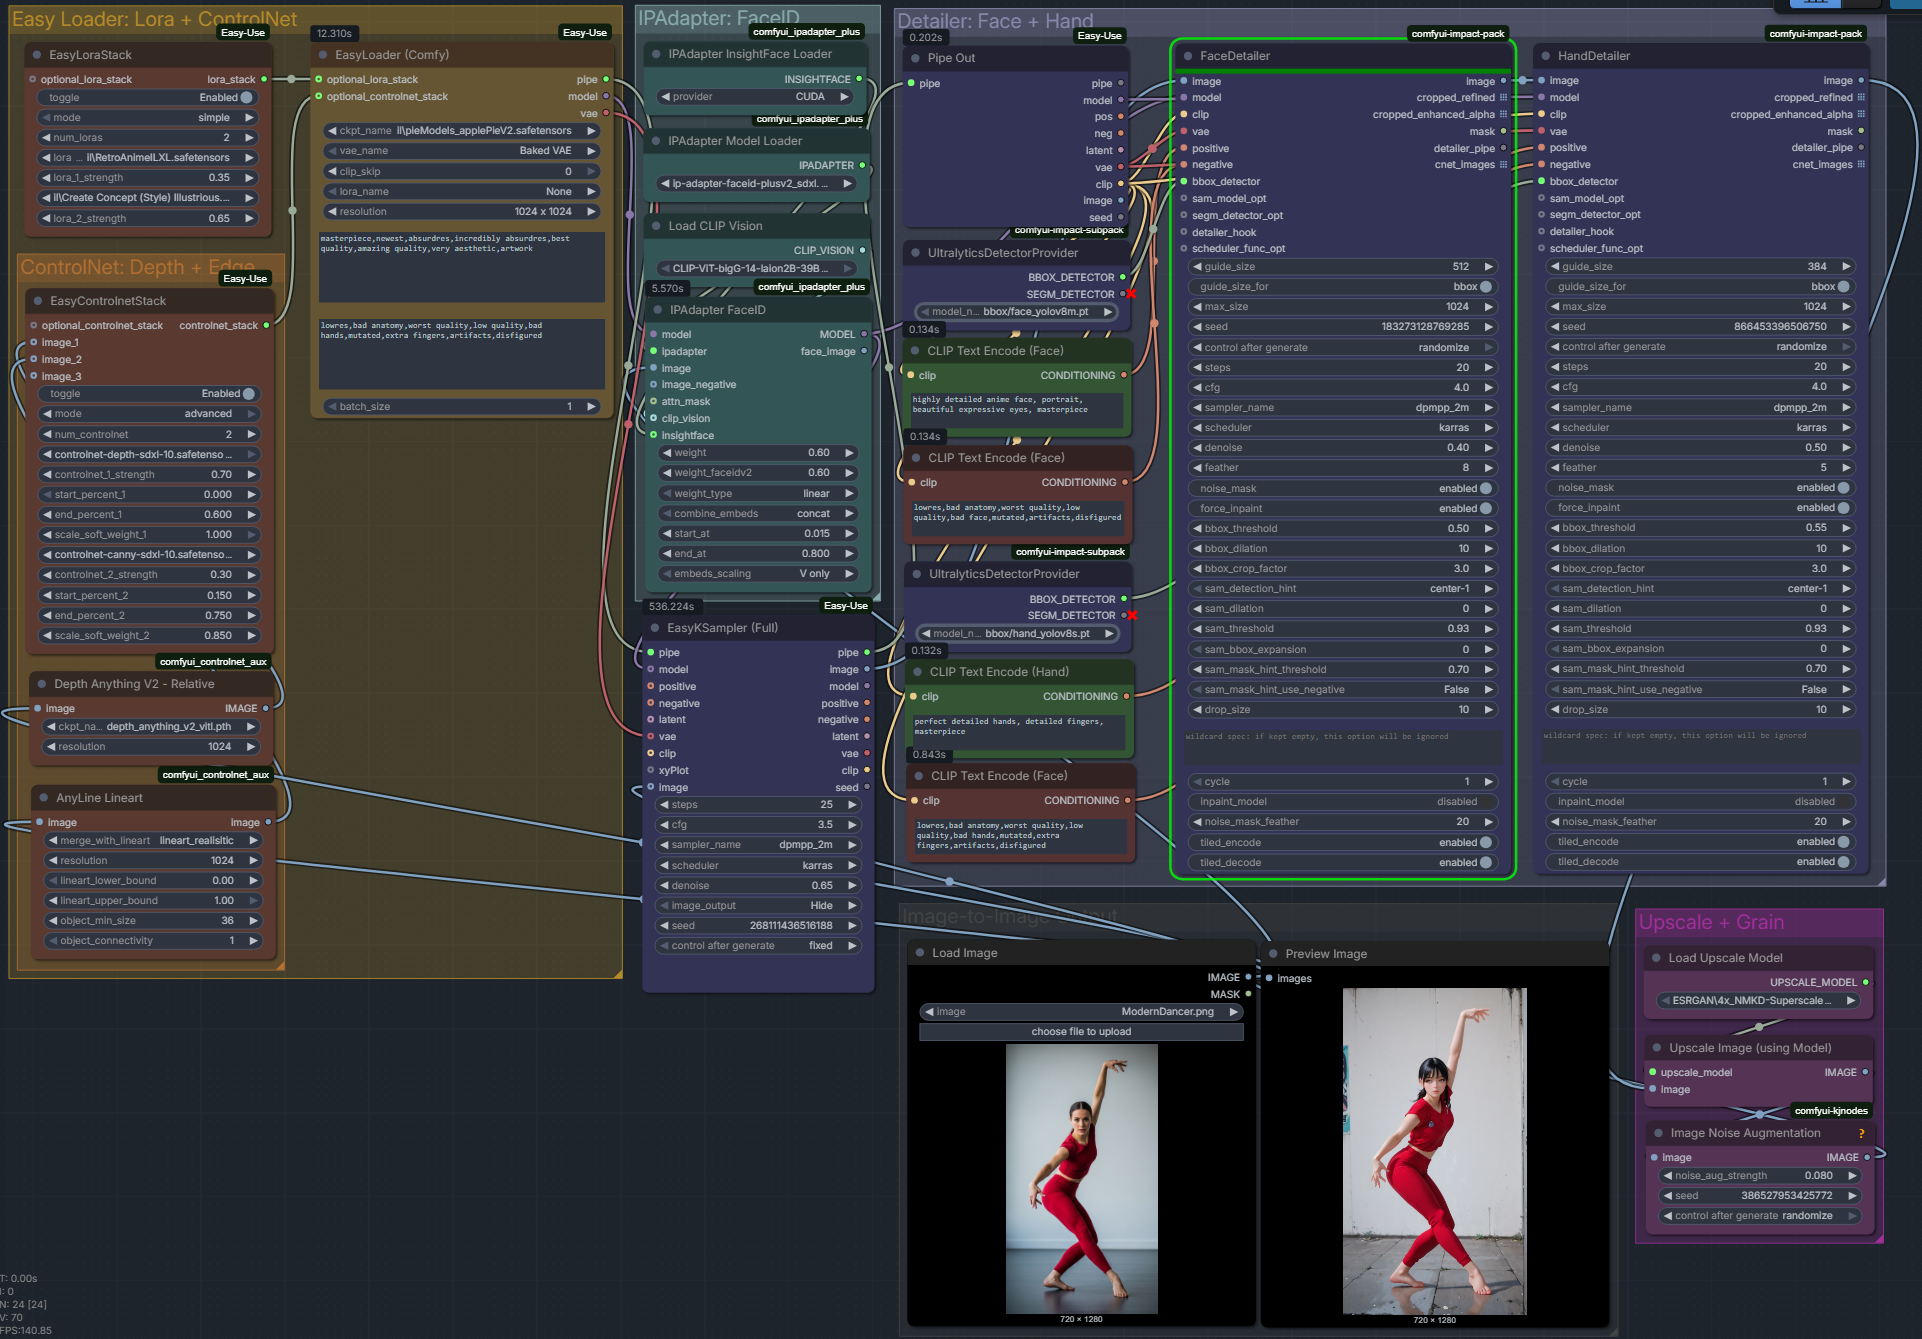
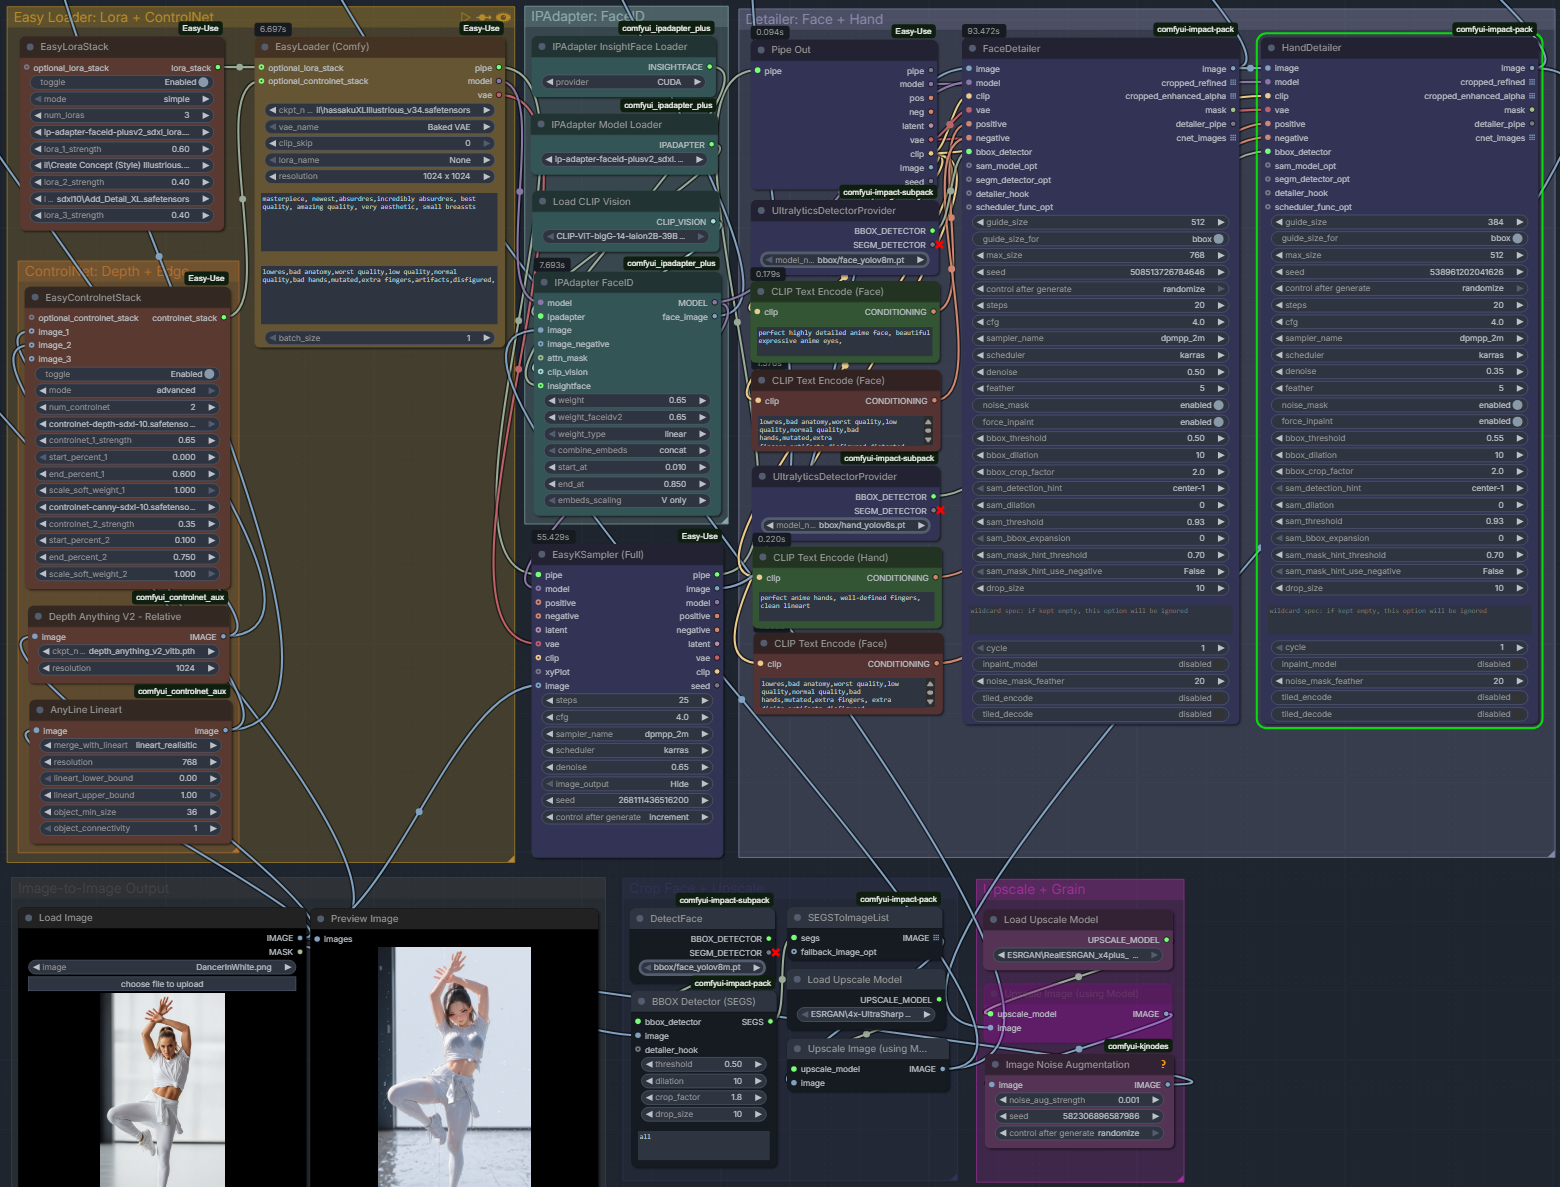
Add files via upload

diff --git a/README.md b/README.md
@@ -17,6 +17,7 @@ Here is an example execution of the pipeline converting an input composition ref
 | Input Subject Reference | Final Pipeline Output |
 | :---: | :---: |
 | ![Input Reference](./images/example_input.png) | ![Stylized Output](./images/example_output_.png) |
+| ![Input Reference](./images/example_input3.png) | ![Stylized Output](./images/example_output3_.png) |
 
 ### Prompt Engineering Configuration
 * **Positive Prompt (EasyLoader):**
@@ -54,7 +55,8 @@ and iteratively denoises it over $T$ steps. In image-to-image (img2img), we begi
 $$z_0 = 	ext{VAEEncode}(x)$$
 
 We then inject noise up to an intermediate step $t_{	ext{start}}$ dictated by the **denoise strength** $d \in [0,1]$. Let $N_{	ext{total}}$ be the total steps configured. The actual executed sampling steps $N_{	ext{exec}}$ are calculated as:
-$$N_{	ext{exec}} = \lfloor N_{	ext{total}} 	imes d 
floor$$
+$$N_{	ext{exec}} = \lfloor N_{	ext{total}} 	imes d 
+floor$$
 
 During these executed steps, the model predicts the noise $\epsilon_	heta$ at each step $t$. Our workflow modifies this noise prediction by applying simultaneous conditioning inputs: text prompts ($c_{	ext{text}}$), structural control signals ($c_{	ext{control}}$), and facial image embeddings ($E_{	ext{img}}$). This combined cross-attention mechanism can be abstractly represented as:
 $$	ilde{\epsilon}_	heta(z_t, c_{	ext{text}}, c_{	ext{control}}, E_{	ext{img}}) = \epsilon_	heta(z_t, c_{	ext{text}} + w_{	ext{ip}}E_{	ext{img}}) + w_{	ext{control}}	ext{ControlNet}(z_t, c_{	ext{control}})$$